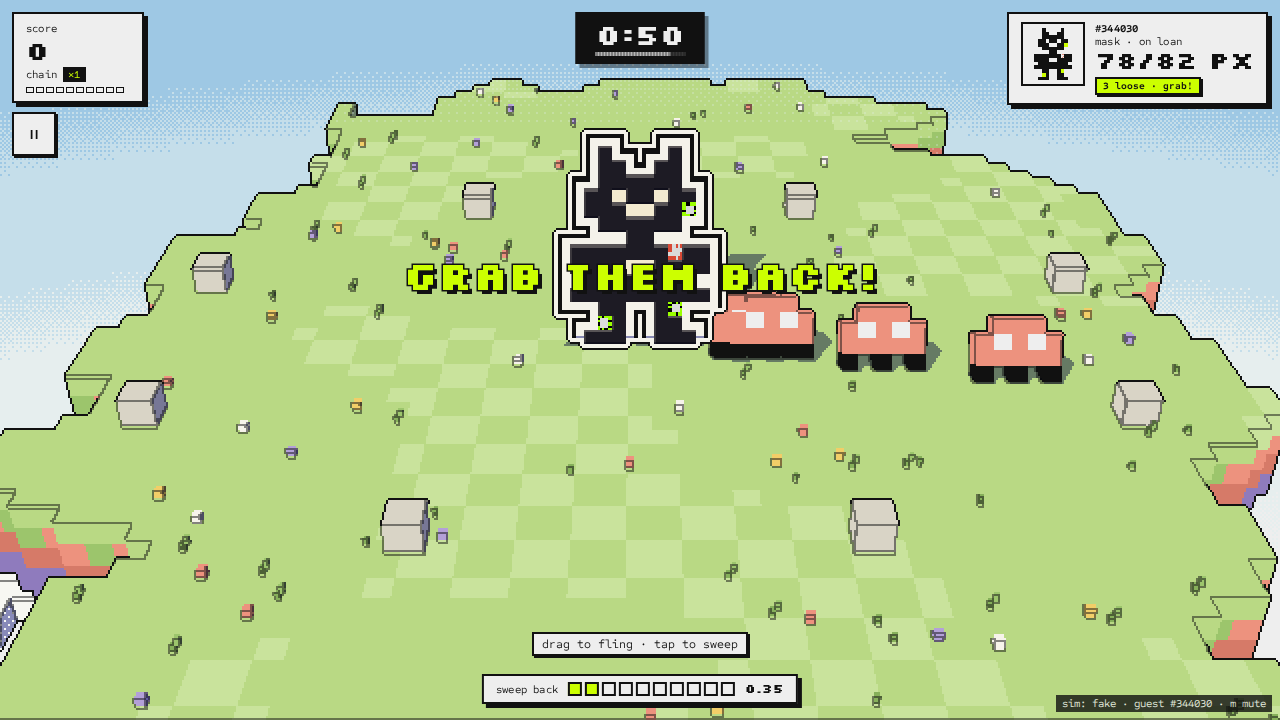
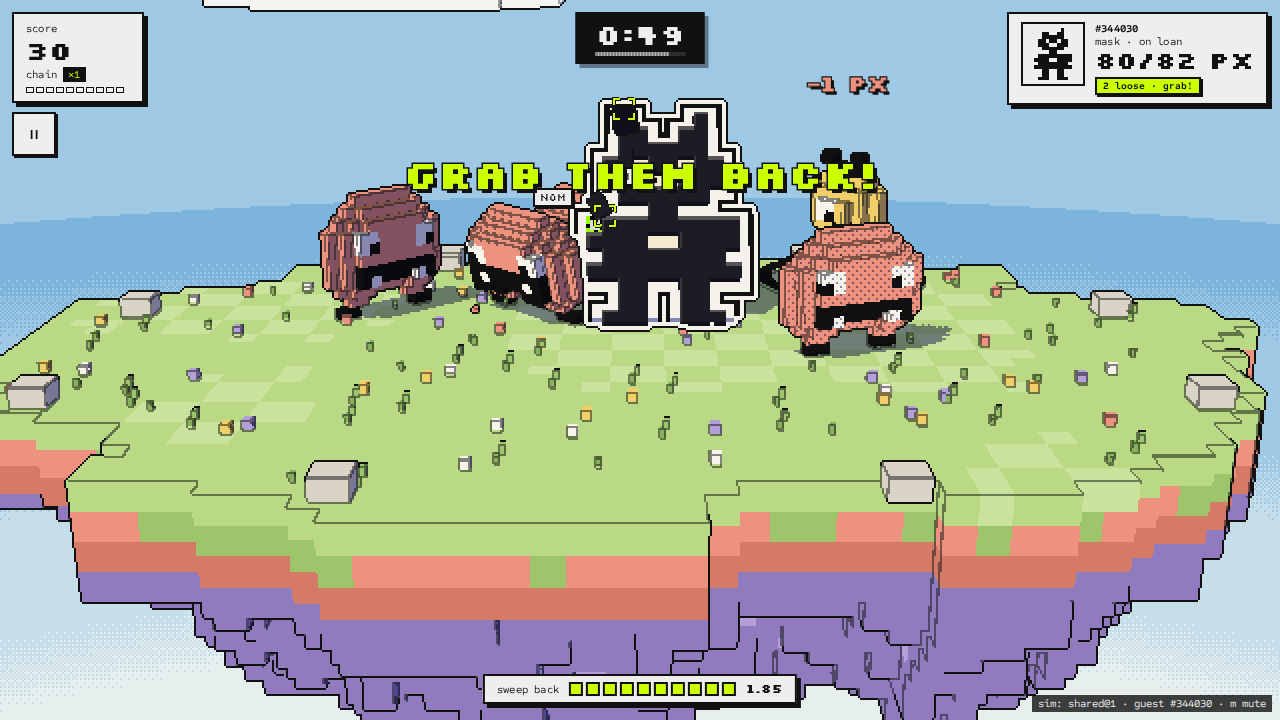
Autopilot debug hook, deterministic fake-clock captures, Gulp framing

diff --git a/apps/game/src/venues/pixel-life/venue.ts b/apps/game/src/venues/pixel-life/venue.ts
@@ -15,7 +15,10 @@ import {
   type Hex64,
   type RunAck,
   type RunKind,
+  BOT_PROFILES,
+  createBot,
   SimEvents as EV,
+  type Bot,
   type Sim,
   type SimConfig,
   type SimEvent as AnyEvent,
@@ -123,8 +126,10 @@ export interface LoosePixelsDebug {
   /** Fires a fling now (angle 0..4095, power 0..1). */
   readonly fling: (ang: number, p: number) => void;
   readonly shareCanvas: () => HTMLCanvasElement | null;
-  /** Fast-forwards the sim by `ticks` with no inputs (events are drained silently); capture tooling only. */
+  /** Fast-forwards the sim by `ticks` (autopilot inputs only; events drained silently); capture tooling only. */
   readonly advance: (ticks: number) => void;
+  /** Lets the sim's balance bot play (attract mode, captures); null hands control back. */
+  readonly autopilot: (profile: keyof typeof BOT_PROFILES | null, seed?: number) => void;
 }
 
 /** A mounted Loose Pixels instance. */
@@ -193,7 +198,10 @@ async function mountVenue(host: VenueHost<GameStage>, opts: LoosePixelsOptions):
   const total = popcount(front);
   const startLostNow = () =>
     effectiveLost(friendView().pub.scars, Date.now(), appearance.tokenId, { goldHeld: friendView().pub.goldHeld });
-  /** Generic bubbles only for creature renderers that don't speak for themselves (the real Munchies do). */
+  /**
+   * The real Munchies speak for themselves and draw their own spawn ripple; generic bubbles and the scene ripple are
+   * only for injected renderers that don't (flips to true as soon as any visual speaks).
+   */
   let creaturesSpeak = !opts.creatureFactory;
   const GULP_BUBBLE = -1;
   const buildScene = (startLost: Hex64, seed: number, arena: { a: number; b: number }): RunScene =>
@@ -235,6 +243,12 @@ async function mountVenue(host: VenueHost<GameStage>, opts: LoosePixelsOptions):
   let prev: FullSimView | null = null;
   let cur: FullSimView | null = null;
   let log = new InputLog();
+  let pilot: Bot | null = null;
+  /** Autopilot inputs for this tick (the bot reads the view like a player reads the screen). */
+  const pilotInputs = (): void => {
+    if (!pilot || !cur) return;
+    for (const i of pilot.decide(cur)) log.push(i);
+  };
   const steer = new SteerEncoder();
   const warp = new TimeWarp(reduced);
   const keys = new KeyboardAim();
@@ -258,7 +272,6 @@ async function mountVenue(host: VenueHost<GameStage>, opts: LoosePixelsOptions):
   let sweepKey = false;
   let lastPhase = -1;
   let musicSlow = 0;
-  let dollyUntil = 0;
   const tmp = new Vector3();
   const tmp2 = new Vector3();
 
@@ -429,7 +442,7 @@ async function mountVenue(host: VenueHost<GameStage>, opts: LoosePixelsOptions):
         audio.cue("slurp.tongue", { x: pan() });
         break;
       case "spawn":
-        scene.ripple(x, z);
+        if (!creaturesSpeak) scene.ripple(x, z);
         audio.cue("creature.spawn", { x: pan(), gain: 0.5 });
         break;
       case "explode":
@@ -473,7 +486,6 @@ async function mountVenue(host: VenueHost<GameStage>, opts: LoosePixelsOptions):
         hud.showBanner("gulp!", "coral", now(), 1200, true);
         const p = projectSim(x, z);
         hud.setEdgeBand(p && p.x < canvas.clientWidth / 2 ? "left" : "right");
-        if (!reduced) dollyUntil = time + 12;
         break;
       }
       case EV.GULP_EV_BITE:
@@ -504,7 +516,6 @@ async function mountVenue(host: VenueHost<GameStage>, opts: LoosePixelsOptions):
       case EV.GULP_EV_REGROW:
         audio.music?.setMood("normal");
         hud.setEdgeBand(null);
-        dollyUntil = 0;
         break;
       default:
         break;
@@ -1020,6 +1031,7 @@ async function mountVenue(host: VenueHost<GameStage>, opts: LoosePixelsOptions):
   const unsubInput = stage.input.on(onInput);
   const unsubTick = stage.onTick(() => {
     if (state !== "run" || paused || resumeAt > 0 || !sim || sim.done) return;
+    pilotInputs();
     const inputs = log.flush(sim.tick);
     sim.step(inputs);
     const before = cur ?? sim.view();
@@ -1065,13 +1077,16 @@ async function mountVenue(host: VenueHost<GameStage>, opts: LoosePixelsOptions):
     }
     if (!cur || !prev) return;
     scene.sync(prev, cur, state === "run" ? alpha : 1, time, dt * scale);
+    const gulpUp = cur.gulp.phase >= 1 && cur.gulp.phase <= 4;
     // Camera: lerp(islandCentre, friend + v·0.12 s, 0.35); dolly out during Old Gulp.
     const b = body();
     if (b && state !== "results") {
-      const k = reduced ? 0.15 : 0.35;
+      // While Old Gulp is up the camera favours the island centre so the whale and the whole rim stay in frame.
+      const k = reduced ? 0.15 : gulpUp ? 0.12 : 0.35;
       stage.rig.follow(tmp.set((b.x + b.vx * 0.12) * U * k, 0, (b.z + b.vz * 0.12) * U * k + CAM_Z));
     }
-    const wantDist = pose.distance * (time < dollyUntil ? 1.12 : 1);
+    // Old Gulp: dolly out 12 % over 0.6 s (GDD §2.4), none under reduced motion (the static framing fits).
+    const wantDist = pose.distance * (gulpUp && !reduced ? 1.12 : 1);
     stage.rig.pose.distance += (wantDist - stage.rig.pose.distance) * Math.min(1, dt / 0.6);
     // HUD.
     const f = cur.friend;
@@ -1160,12 +1175,17 @@ async function mountVenue(host: VenueHost<GameStage>, opts: LoosePixelsOptions):
       advance: (ticks) => {
         if (!sim || state !== "run") return;
         for (let i = 0; i < ticks && !sim.done; i++) {
+          pilotInputs();
           sim.step(log.flush(sim.tick));
           sim.drainEvents();
+          cur = sim.view();
         }
         cur = sim.view();
         prev = cur;
         if (sim.done) endRun();
+      },
+      autopilot: (profile, seed = 1) => {
+        pilot = profile ? createBot(BOT_PROFILES[profile], seed) : null;
       },
       state: () => state,
       view: () => cur,

diff --git a/apps/game/src/venues/pixel-life/scene.ts b/apps/game/src/venues/pixel-life/scene.ts
@@ -54,8 +54,11 @@ import { KIND, PX } from "./sim-module";
 
 /** World units per sim unit (1 u = 1 sprite pixel = the Friend's voxel size). */
 export const U = 0.15;
-/** Old Gulp's voxel edge in the run scene: its 3 tooth sockets (4 voxels apart) line up with the sim's teeth. */
-export const GULP_RUN_VOXEL = 0.2;
+/**
+ * Old Gulp's voxel edge in the run scene: big enough to loom over the island (≈ 6.7 world units long), small enough that
+ * the whole whale fits the dollied-out frame. The sim's teeth are marked by ground rings (the gameplay truth) under its jaw.
+ */
+export const GULP_RUN_VOXEL = 0.14;
 /** In-run camera pitch (art bible: 32°); the Friend plate is pitched back by it so its face meets the camera. */
 export const RUN_PITCH_DEG = 32;
 const DEG = Math.PI / 180;
